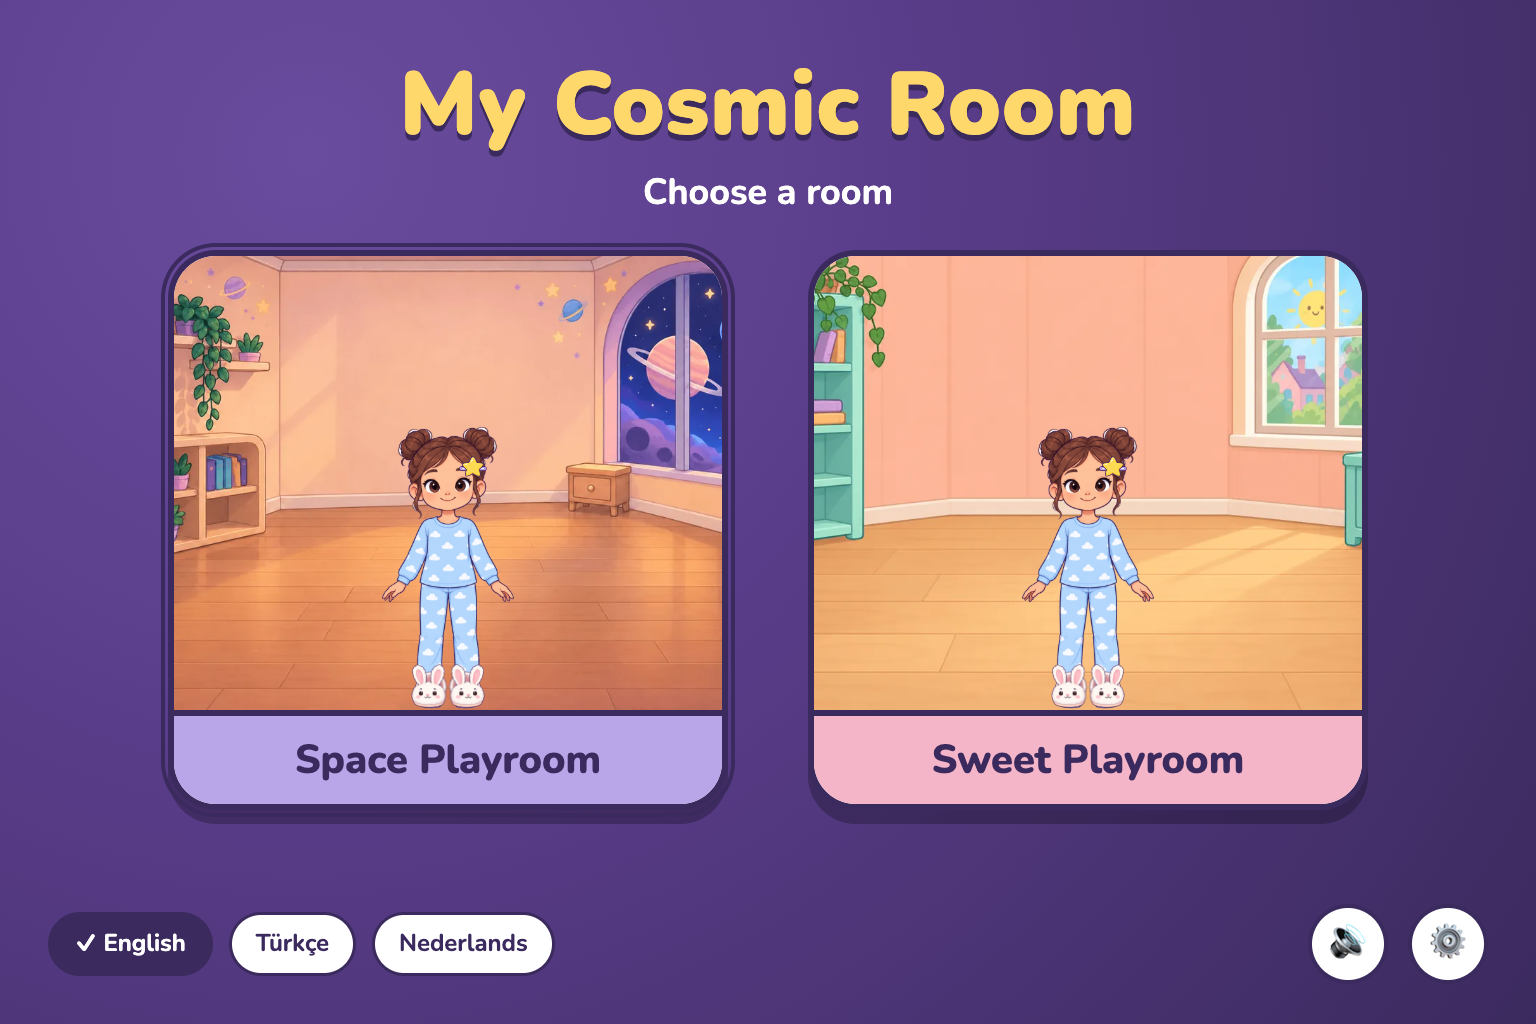
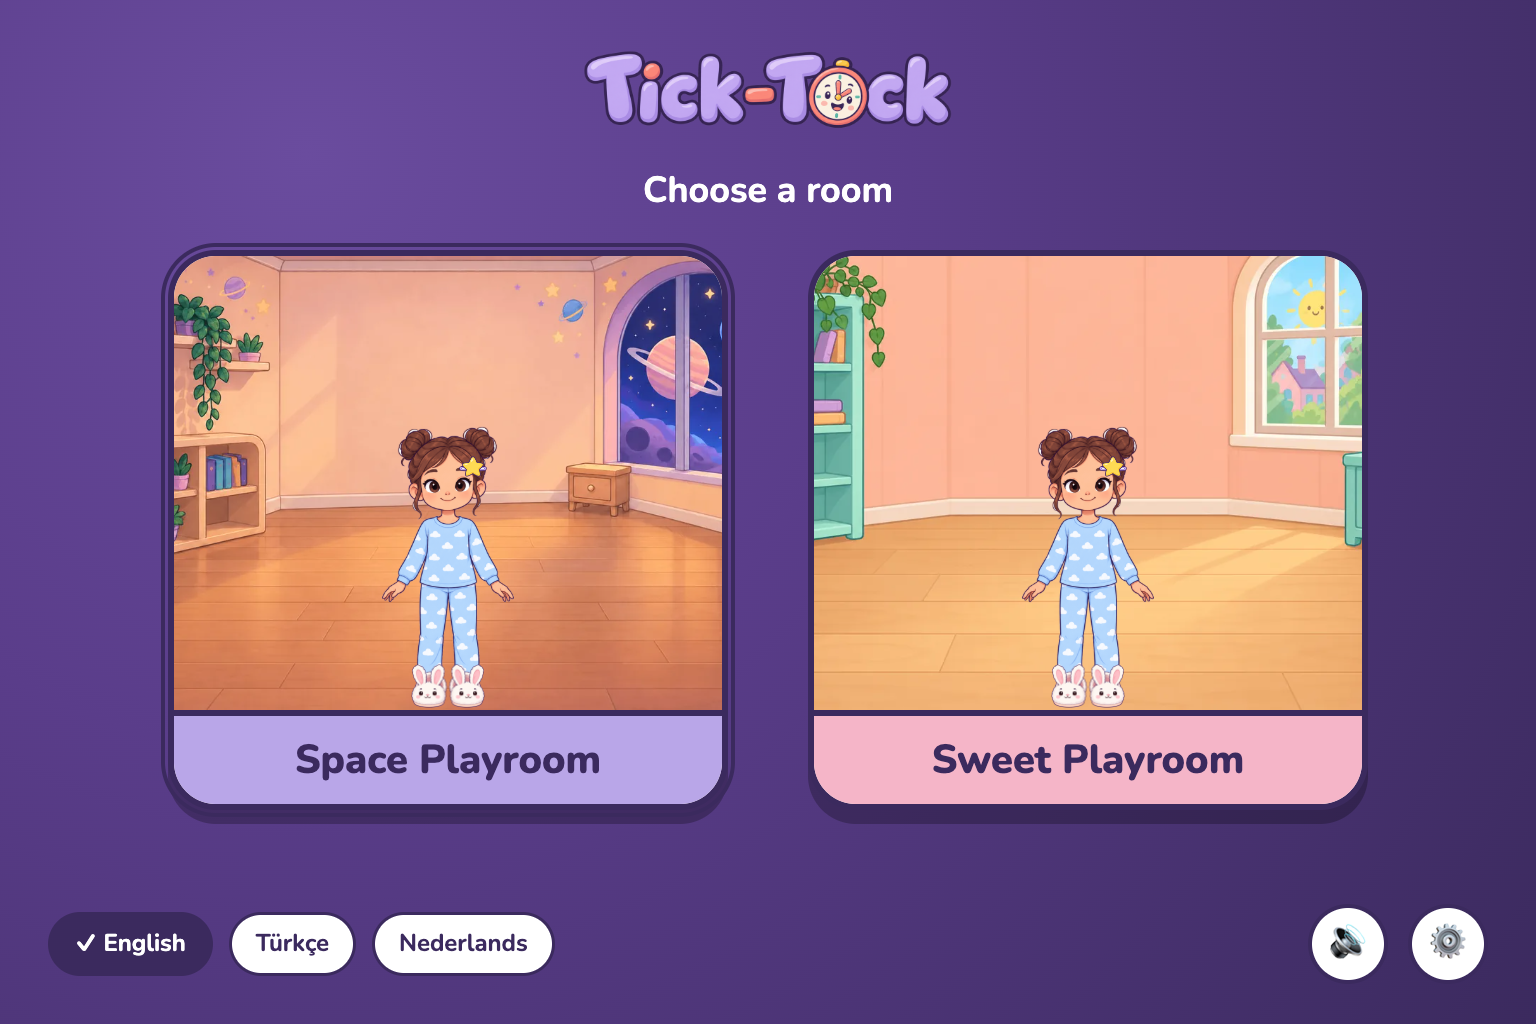
Rename the game to Tick-Tock (D9)
The working title "My Cosmic Room" becomes "Tick-Tock" everywhere a player or
reader sees it: app.title in all three languages (the name stays untranslated),
the S6 import message, the page title, the package name and description, the
export filename (tick-tock-save.json), the e2e assertions, README, CHANGELOG,
SPEC (D9 decided 13 September 2026, header, §15.3 logo row), PRD and the
next-session handoff. The mcr.* localStorage keys keep the legacy prefix so
existing saves survive (commented in src/core/save.ts).

The title logo is regenerated through the asset pipeline with a new prompt
(exact "Tick-Tock" lettering with a clock motif; a logo-specific prompt clause
replaces the "no text" object clause) and post-processed; S0 now shows it
(TITLE_LOGO = true) sized so the subtitle stays clear of the room cards, the
heading keeping the title text for assistive technology. The title-cards
screenshot is regenerated.

Not renamed (the user's call): the GitHub repository and its Pages URL
(/my-cosmic-room/), the branch and the workflows; the concept images keep the
historic title.

Changed region(s): [[0.25, 0.0312, 0.75, 0.2188]]

diff --git a/e2e/flow5-parent-corner.spec.ts b/e2e/flow5-parent-corner.spec.ts
@@ -53,7 +53,7 @@ test('flow 5: hold the gear, lock levels, 24-hour clocks, export and import, res
   const downloadPromise = page.waitForEvent('download');
   await page.getByTestId('s6-export').click();
   const download = await downloadPromise;
-  expect(download.suggestedFilename()).toBe('my-cosmic-room-save.json');
+  expect(download.suggestedFilename()).toBe('tick-tock-save.json');
   const exportedPath = await download.path();
   const { readFileSync } = await import('node:fs');
   const exported = JSON.parse(readFileSync(exportedPath, 'utf8')) as {
@@ -73,7 +73,7 @@ test('flow 5: hold the gear, lock levels, 24-hour clocks, export and import, res
     mimeType: 'application/json',
     buffer: Buffer.from('{"version": 1, "nonsense": true}'),
   });
-  await expect(page.getByTestId('s6-status')).toHaveText('That file is not a My Cosmic Room save.');
+  await expect(page.getByTestId('s6-status')).toHaveText('That file is not a Tick-Tock save.');
   await page.getByTestId('s6-import-file').setInputFiles({
     name: 'future.json',
     mimeType: 'application/json',
@@ -87,7 +87,7 @@ test('flow 5: hold the gear, lock levels, 24-hour clocks, export and import, res
     themes: { ...exported.themes, sweet: { ...exported.themes.sweet, stars: 7 } },
   };
   await page.getByTestId('s6-import-file').setInputFiles({
-    name: 'my-cosmic-room-save.json',
+    name: 'tick-tock-save.json',
     mimeType: 'application/json',
     buffer: Buffer.from(JSON.stringify(edited)),
   });
@@ -98,7 +98,7 @@ test('flow 5: hold the gear, lock levels, 24-hour clocks, export and import, res
   await expect(dialog).toHaveCount(0);
   await expect.poll(async () => (await readSave(page)).themes.sweet.stars).toBe(2);
   await page.getByTestId('s6-import-file').setInputFiles({
-    name: 'my-cosmic-room-save.json',
+    name: 'tick-tock-save.json',
     mimeType: 'application/json',
     buffer: Buffer.from(JSON.stringify(edited)),
   });
@@ -110,7 +110,7 @@ test('flow 5: hold the gear, lock levels, 24-hour clocks, export and import, res
 
   // Done returns to the screen that opened the corner.
   await page.getByTestId('s6-done').click();
-  await expect(page.getByRole('heading', { level: 1 })).toHaveText('My Cosmic Room');
+  await expect(page.getByRole('heading', { level: 1 })).toHaveText('Tick-Tock');
 
   // AT-29: with levels locked, the S2 chips are disabled and a lock icon shows.
   await page.getByTestId('room-card-space').click();

diff --git a/tools/gen-assets.ts b/tools/gen-assets.ts
@@ -48,6 +48,9 @@ const SINGLE_OBJECT =
 const ROOM_CLAUSE = 'Full scene, no text, no watermark.';
 const FIGURE_CLAUSE =
   'Single character, centred, plain white background, no text, no shadow, no watermark.';
+/** The title logo is lettering, so it is the one entry that may (must) contain text. */
+const LOGO_CLAUSE =
+  'Single lettering lockup, centred, plain white background, no other text or words, no shadow, no watermark; spell the title exactly as given.';
 
 interface Args {
   smoke: boolean;
@@ -161,7 +164,9 @@ function buildPrompt(id: string, entry: AssetEntry, variant: string | null): str
       ? ROOM_CLAUSE
       : entry.category === 'heroine' && entry.layer === 'figure'
         ? FIGURE_CLAUSE
-        : SINGLE_OBJECT;
+        : entry.category === 'logo'
+          ? LOGO_CLAUSE
+          : SINGLE_OBJECT;
   const out = `assets/.gen/${id}${variant ? '.' + variant : ''}.png`;
   return (
     `You are generating one piece of game art. Use your image generation tool. ${STYLE_BLOCK} ` +

diff --git a/src/strings/tr.ts b/src/strings/tr.ts
@@ -5,7 +5,7 @@ import type { StringKey } from './en.ts';
  * (Tam saat, Buçuk, Çeyrek). Starter item names are new and marked for native review.
  */
 export const tr: Record<StringKey, string> = {
-  'app.title': 'My Cosmic Room',
+  'app.title': 'Tick-Tock',
   'room.space': 'Uzay Oyun Odası',
   'room.sweet': 'Tatlı Oyun Odası',
   'companion.space': 'Pip',
@@ -192,7 +192,7 @@ export const tr: Record<StringKey, string> = {
   's6.importConfirm': 'Değiştir',
   's6.cancel': 'Vazgeç',
   's6.imported': 'Kayıt yüklendi.',
-  's6.importInvalid': 'Bu dosya bir My Cosmic Room kaydı değil.',
+  's6.importInvalid': 'Bu dosya bir Tick-Tock kaydı değil.',
   's6.importNewer': 'Bu kayıt oyunun daha yeni bir sürümünden geliyor.',
   's6.recentEmpty': 'Henüz görev yok.',
   's6.col.when': 'Ne zaman',

diff --git a/src/strings/nl.ts b/src/strings/nl.ts
@@ -6,7 +6,7 @@ import type { StringKey } from './en.ts';
  * Starter item names are new and marked for native review.
  */
 export const nl: Record<StringKey, string> = {
-  'app.title': 'My Cosmic Room',
+  'app.title': 'Tick-Tock',
   'room.space': 'Ruimtespeelkamer',
   'room.sweet': 'Zoete speelkamer',
   'companion.space': 'Pip',
@@ -193,7 +193,7 @@ export const nl: Record<StringKey, string> = {
   's6.importConfirm': 'Vervangen',
   's6.cancel': 'Annuleren',
   's6.imported': 'Opslag geïmporteerd.',
-  's6.importInvalid': 'Dat bestand is geen opslag van My Cosmic Room.',
+  's6.importInvalid': 'Dat bestand is geen opslag van Tick-Tock.',
   's6.importNewer': 'Die opslag komt uit een nieuwere versie van het spel.',
   's6.recentEmpty': 'Nog geen missies.',
   's6.col.when': 'Wanneer',

diff --git a/src/ui/screens/S0Title.tsx b/src/ui/screens/S0Title.tsx
@@ -12,11 +12,11 @@ import { HoldButton } from '../components/HoldButton.tsx';
 import { GEAR_HOLD_MS } from './S6Parent.tsx';
 
 /**
- * D9 (title): the generated logo `shared/ui/logo` (reads "My Cosmic Room") is wired up but
- * off until the user confirms the title; the text lockup stays. Flip to true to show it (the
- * heading keeps the title text for assistive technology and the e2e checks).
+ * D9 (title): the generated logo `shared/ui/logo` (reads "Tick-Tock") is shown in place of
+ * the text lockup; the heading keeps the title text (visually hidden) for assistive technology
+ * and the e2e checks. Flip to false to fall back to the text lockup.
  */
-const TITLE_LOGO = false;
+const TITLE_LOGO = true;
 
 /** S0 Title and room choice (SPEC §3.3). */
 export function S0Title() {

diff --git a/src/core/save.ts b/src/core/save.ts
@@ -25,11 +25,14 @@ import type {
 import { SLOT_TYPES } from './types.ts';
 
 export const SAVE_VERSION = 1 as const;
+// "mcr" is the legacy storage prefix from the working title "My Cosmic Room". The game was
+// renamed to Tick-Tock (D9) but the keys stay, since changing them would orphan every
+// existing save in players' browsers.
 export const SAVE_KEY = 'mcr.save.v1';
 export const BACKUP_KEY = 'mcr.save.backup';
 export const QUARANTINE_KEY = 'mcr.save.quarantine';
 export const NOTICE_KEY = 'mcr.save.notice';
-export const EXPORT_FILENAME = 'my-cosmic-room-save.json';
+export const EXPORT_FILENAME = 'tick-tock-save.json';
 
 /** Structural subset of the DOM Storage interface, so core stays DOM-free. */
 export interface KeyValueStore {

diff --git a/src/strings/en.ts b/src/strings/en.ts
@@ -3,7 +3,7 @@
  * Keys are namespaced; values are whole sentences with {placeholders}.
  */
 export const en = {
-  'app.title': 'My Cosmic Room',
+  'app.title': 'Tick-Tock',
   'room.space': 'Space Playroom',
   'room.sweet': 'Sweet Playroom',
   'companion.space': 'Pip',
@@ -191,7 +191,7 @@ export const en = {
   's6.importConfirm': 'Replace',
   's6.cancel': 'Cancel',
   's6.imported': 'Save imported.',
-  's6.importInvalid': 'That file is not a My Cosmic Room save.',
+  's6.importInvalid': 'That file is not a Tick-Tock save.',
   's6.importNewer': 'That save comes from a newer version of the game.',
   's6.recentEmpty': 'No missions yet.',
   's6.col.when': 'When',

diff --git a/tools/manifest-data.ts b/tools/manifest-data.ts
@@ -677,7 +677,7 @@ export const EXTRA_ASSETS: Extra[] = [
     label: 'Title logo',
     ...gen(
       'astra-light',
-      'a playful rounded title logo reading "My Cosmic Room" in chunky friendly letters, lavender and coral with a small star and moon, on plain white',
+      'a title logo for a children\'s clock game: the single word "Tick-Tock" (exactly that spelling, with the hyphen, and no other words) in playful rounded chunky children\'s-game lettering, lavender letters with coral accents, a small friendly clock face tucked into the lettering as the only extra motif, on plain white',
       [SPACE_REF],
     ),
   },

diff --git a/e2e/at26-theme-switch.spec.ts b/e2e/at26-theme-switch.spec.ts
@@ -52,7 +52,7 @@ test('AT-26 / flow 4: both rooms keep their layout, counters are separate, the w
 
   // --- Rooms → Sweet: its own layout and counter; the boots came along.
   await page.getByTestId('rooms-button').click();
-  await expect(page.getByRole('heading', { level: 1 })).toHaveText('My Cosmic Room');
+  await expect(page.getByRole('heading', { level: 1 })).toHaveText('Tick-Tock');
   await page.getByTestId('room-card-sweet').click();
   await expect(page.getByRole('heading', { level: 1 })).toHaveText('Sweet Playroom');
   await expect(page.getByTestId('collected')).toContainText('3 / 12 collected');

diff --git a/src/styles/base.css b/src/styles/base.css
@@ -259,11 +259,13 @@ button:disabled {
   color: var(--star);
   text-shadow: 0 6px 0 var(--plum);
 }
-/* The generated title logo (D9), shown inside the h1 when S0Title enables it. */
+/* The generated title logo (D9), shown inside the h1 when S0Title enables it. The lettering
+   fills about the middle 55 % of the image, so it is drawn taller than the text lockup and
+   pulled up into the header padding to keep the subtitle clear of the cards at top: 250px. */
 .title-logo {
   display: block;
-  margin: 0 auto;
-  height: 160px;
+  margin: -28px auto 0;
+  height: 140px;
   width: auto;
 }
 .s0-sub {

diff --git a/e2e/s0-title.spec.ts b/e2e/s0-title.spec.ts
@@ -12,7 +12,7 @@ test.describe('S0 title and room choice', () => {
     await dialog.getByTestId('lang-nl').click();
     await expect(dialog).toBeHidden();
 
-    await expect(page.getByRole('heading', { level: 1 })).toHaveText('My Cosmic Room');
+    await expect(page.getByRole('heading', { level: 1 })).toHaveText('Tick-Tock');
     await expect(page.getByTestId('room-card-space')).toContainText('Ruimtespeelkamer');
     await expect(page.getByTestId('room-card-sweet')).toContainText('Zoete speelkamer');
     await expect(page.locator('html')).toHaveAttribute('lang', 'nl');

diff --git a/e2e/flow1-first-mission.spec.ts b/e2e/flow1-first-mission.spec.ts
@@ -70,7 +70,7 @@ test('flow 1: first launch, Rocket launch at half hours, Moon bed placed and kep
 
   // Reload persists the room and ends the mission.
   await page.reload();
-  await expect(page.getByRole('heading', { level: 1 })).toHaveText('My Cosmic Room');
+  await expect(page.getByRole('heading', { level: 1 })).toHaveText('Tick-Tock');
   await page.getByTestId('room-card-space').click();
   await expect(page.locator('.s1').getByTestId('slot-BED')).toHaveAttribute(
     'data-item',
